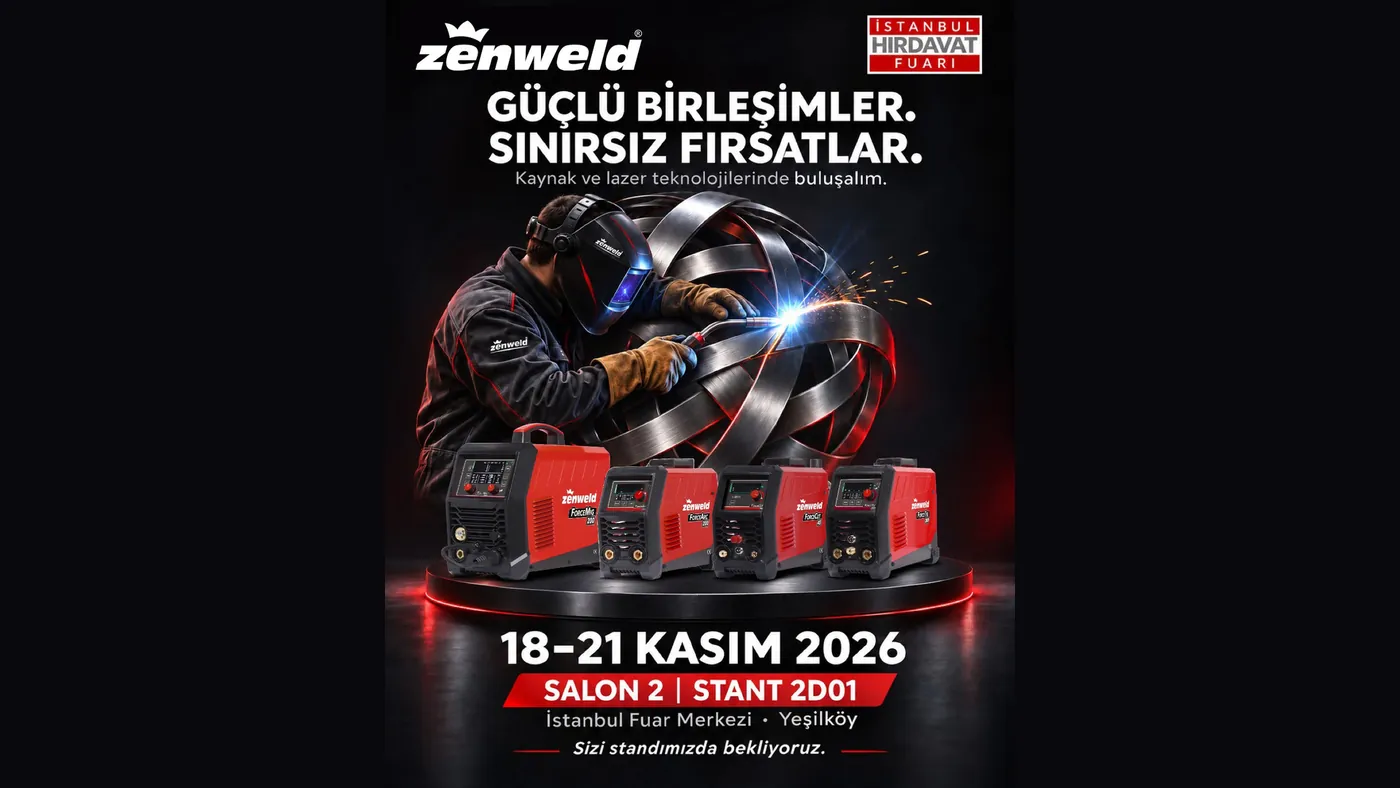
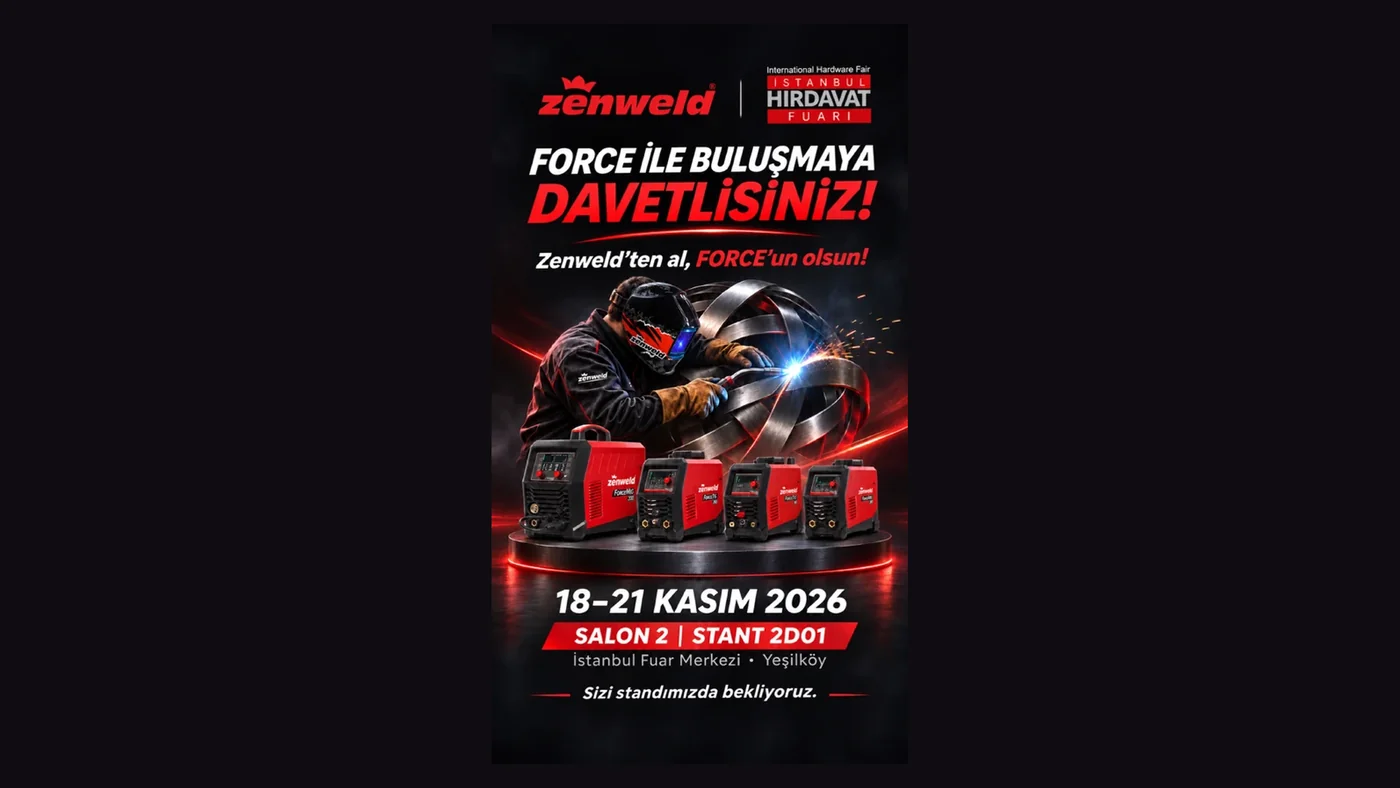
Haber görselleri düzeltildi, "2000" yılı birleştirildi, plazma "kesim/kesme" kuralı genişletildi
- İzmir fabrika açılışı haberi: kapak davetiye görseli, fotoğraflar
  bölümünde kurdele kesim fotoğrafı (sahibinin isteğiyle yerleri
  değişti).
- İstanbul Hırdavat Fuarı 2026 haberi: sahibinin gönderdiği doğru afiş
  ("Force ile buluşmaya davetlisiniz"). Afiş dikey; kartta ve haber
  sayfasında hiçbir yeri kesilmesin diye afişin kendi zemin renginde 16:9
  çerçevenin ortasına yerleştirildi.
- İmatech etkinlik metinlerindeki "2005 yılından beri" → "2000"
  (Hakkımızda ve haberlerle aynı). DB_VERSION 91.
- SEO.md › 2 ve YAPILACAKLAR › Ürün içeriği 7: ad ve başlıklarda "kesim",
  açıklamalarda bir kez "kesme" kuralı plazma aksesuarlarını da kapsıyor;
  Aksesuarlar bölüm açıklamasındaki "plazma kesme aksesuarları" bu kural
  gereği bilerek kalıyor.

Claude-Session: https://claude.ai/code/session_01VKe9khGAXnVRXMfF1nNim2

Changed region(s): [[0.2764, 0.0, 0.7371, 0.9746]]

diff --git a/packages/data/src/seed/events.seed.ts b/packages/data/src/seed/events.seed.ts
@@ -223,7 +223,7 @@ Win Eurasia 2024 Endüstri Fuarı'nı ziyaret etmeyi planlıyorsanız, Zenweld s
 
 ## Zenweld Hakkında
 
-Zenweld, 2005 yılından beri kaynak ve kesme teknolojileri alanında faaliyet gösteren bir Türk markasıdır. Zenweld, geniş ürün yelpazesi ve uzman ekibiyle, metal işleme sektörünün farklı ihtiyaçlarına çözümler sunmaktadır. Zenweld, Türkiye'nin önde gelen sanayi kuruluşlarının tedarikçileri arasında yer almaktadır.`,
+Zenweld, 2000 yılından beri kaynak ve kesme teknolojileri alanında faaliyet gösteren bir Türk markasıdır. Zenweld, geniş ürün yelpazesi ve uzman ekibiyle, metal işleme sektörünün farklı ihtiyaçlarına çözümler sunmaktadır. Zenweld, Türkiye'nin önde gelen sanayi kuruluşlarının tedarikçileri arasında yer almaktadır.`,
     startDate: "2024-05-08",
     endDate: "2024-05-11",
     venue: "Konya Fuar Merkezi",
@@ -255,7 +255,7 @@ Zenweld Genel Müdürü Murat Zengin yaptığı açıklamada, İmatech 2024 fuar
 
 ## Zenweld Hakkında
 
-Zenweld, 2005 yılından beri kaynak ve kesme teknolojileri alanında faaliyet gösteren bir Türk markasıdır. Zenweld, geniş ürün yelpazesi ve uzman ekibiyle, metal işleme sektörünün farklı ihtiyaçlarına çözümler sunmaktadır. Zenweld, Türkiye'nin önde gelen sanayi kuruluşlarının tedarikçileri arasında yer almaktadır.
+Zenweld, 2000 yılından beri kaynak ve kesme teknolojileri alanında faaliyet gösteren bir Türk markasıdır. Zenweld, geniş ürün yelpazesi ve uzman ekibiyle, metal işleme sektörünün farklı ihtiyaçlarına çözümler sunmaktadır. Zenweld, Türkiye'nin önde gelen sanayi kuruluşlarının tedarikçileri arasında yer almaktadır.
 
 ## İmatech 2024 Hakkında
 
@@ -301,8 +301,8 @@ MIG/MAG, TIG ve MMA kaynak makineleri, plazma kesme sistemleri ve lazer teknoloj
 Bu anlamlı günümüzde bizleri yalnız bırakmayan Menderes Kaymakamı Sayın Murat Karaloğlu'na, Menderes Belediye Başkan Vekili Sayın Asuman Şen'e, Jasic heyetine, değerli iş ortaklarımıza, tüm misafirlerimize ve emeği geçen çalışma arkadaşlarımıza teşekkür ederiz.
 
 Cumhuriyetimizin ışığında üretmeye, gelişmeye ve geleceğe değer katmaya devam ediyoruz.`,
-    coverUrl: "/images/news/izmir-uretim-tesisi-acilisi-2026.webp",
-    images: ["/images/news/izmir-uretim-tesisi-acilisi-davet-2026.webp"],
+    coverUrl: "/images/news/izmir-uretim-tesisi-acilisi-davet-2026.webp",
+    images: ["/images/news/izmir-uretim-tesisi-acilisi-2026.webp"],
     publishedAt: "2026-11-10T10:00:00+03:00",
     active: true,
   },

diff --git a/packages/data/src/index.ts b/packages/data/src/index.ts
@@ -59,7 +59,7 @@ import { createSampleCoupons } from "./seed/coupons.seed";
 import { createSampleEmails } from "./seed/emails.seed";
 
 /** localStorage'a yuklenecek baslangic veritabani. */
-export const DB_VERSION = 90;
+export const DB_VERSION = 91;
 
 /**
  * now: ornek hareketlerin (siparis, stok ...) tarihlendigi an. Tarayicida

diff --git a/docs/SEO.md b/docs/SEO.md
@@ -103,10 +103,24 @@ elektrodu (rutil, bazik; her biri 1.000–10.000), kaynak gözlüğü
   - "makinesi" (Trends'te "makinası"nın yaklaşık 3 katı); "makinası"
     metinde bir kez geçebilir.
   - "elektrot" ve "inverter" (K-118).
-  - Plazmada ürün ve kategori adlarında "kesim" (K-118); anasayfa başlığı
-    "Plazma Kesme Sistemleri" olarak kalır. "Plazma kesme makinesi"
-    ifadesi plazma ürünlerinin açıklamasında ve Plazma Kesim Makineleri
-    kategorisinin Tanıtım Metni'nde bir kez geçer.
+  - **Plazmada iki yazım birlikte:** ad ve başlıklarda "kesim" (ürün
+    adı, kategori ve grup adı, sayfa başlığı; K-118), açıklamalarda bir
+    kez de "kesme". "Plazma kesim makinesi" ayda 1.000–10.000, "plazma
+    kesme makinesi" 100–1.000 aranıyor; Google ikisini büyük ölçüde aynı
+    sayar ama sayfada iki yazımın da geçmesi küçük ölçüde ikisinden de
+    görünürlük sağlar. Kural:
+    - Plazma makinelerinin (Multicut, ForceCut) açıklamasının ilk
+      paragrafında ve Plazma Kesim Makineleri kategorisinin Tanıtım
+      Metni'nde "plazma kesme makinesi" bir kez geçer.
+    - Plazma Kesim Aksesuarları grubunun ve plazma aksesuar
+      kategorilerinin Tanıtım Metni'nde, plazma aksesuar ürünlerinin
+      açıklamasında "plazma kesme torcu / ucu / sarf malzemesi" gibi bir
+      kez geçer.
+    - "Kesme" ürün adına, sayfa başlığına ve teknik özellikler tablosuna
+      yazılmaz; bir sayfada bir kez yeter, tekrar sıralamayı düşürür.
+    - Anasayfa başlığı "Plazma Kesme Sistemleri" ve Aksesuarlar bölüm
+      açıklamasındaki "plazma kesme aksesuarları" bu yüzden bilerek
+      "kesme" kalır.
 - Sayfa başlığı "| ZENWELD" dahil en çok 60 karakter, Google açıklaması
   140–155 karakter.
 - Alıcı önce fiyat arıyor (neredeyse her terimde Google'ın ilk önerisi
@@ -458,7 +472,7 @@ Magmaweld "Lava MIG 35-4 4 m").
 | MMA › Elektrot Pense ve Kitleri | elektrot pensesi | kaynak pensesi (1.000–10.000), kaynak maşası (1.000–10.000), elektrot tutucu | Elektrot Pensesi ve Kitleri |
 | MMA › Şase Pense ve Kitleri | şase pensesi | 200 / 300 / 400 / 500 / 600 amper, vidalı, manyetik şase | Şase Pensesi ve Kitleri |
 | Plazma › Plazma Torçları | plazma torcu | plazma kesim torcu, el plazma torcu, CNC plazma torcu | — |
-| Plazma › Plazma Torç Sarf Malzemeleri | plazma elektrot ve meme | plazma nozulu, plazma kesim ucu | — |
+| Plazma › Plazma Torç Sarf Malzemeleri | plazma elektrot ve meme | plazma nozulu, plazma kesim ucu, plazma kesme ucu (bir kez) | — |
 | Plazma › Plazma Torç Yedek Parçaları | plazma torcu yedek parça | torç gövdesi, hortum | — |
 | Plazma › Plazma Torç Aparatları | plazma daire kesme aparatı | plazma kesim pergeli, kılavuz | — |
 | Diğer › Su Soğutmalar | kaynak su soğutma ünitesi | kaynak soğutucu, torç soğutucu, kaynak soğutma sıvısı | Su Soğutma Üniteleri |
@@ -553,9 +567,10 @@ metinde.
 
 - Pazar yerleri ürün adına amper de yazıyor ("… 200 A …"); bizim adlarda
   yok, ilk cümlede ve gerekirse sayfa başlığında geçer.
-- **Plazma ürünlerinde** "plazma kesme makinesi" ifadesi açıklamanın ilk
-  paragrafında bir kez geçer ([YAPILACAKLAR.md](YAPILACAKLAR.md) › Ürün
-  içeriği, madde 7).
+- **Plazma ürünlerinde** "plazma kesme makinesi" (aksesuarda "plazma kesme
+  torcu / ucu") ifadesi açıklamanın ilk paragrafında bir kez geçer
+  ([2. bölüm](#2-temel-kurallar); [YAPILACAKLAR.md](YAPILACAKLAR.md) ›
+  Ürün içeriği, madde 7).
 
 **Örnek (gerçek veriden, ForceArc 200):**
 
